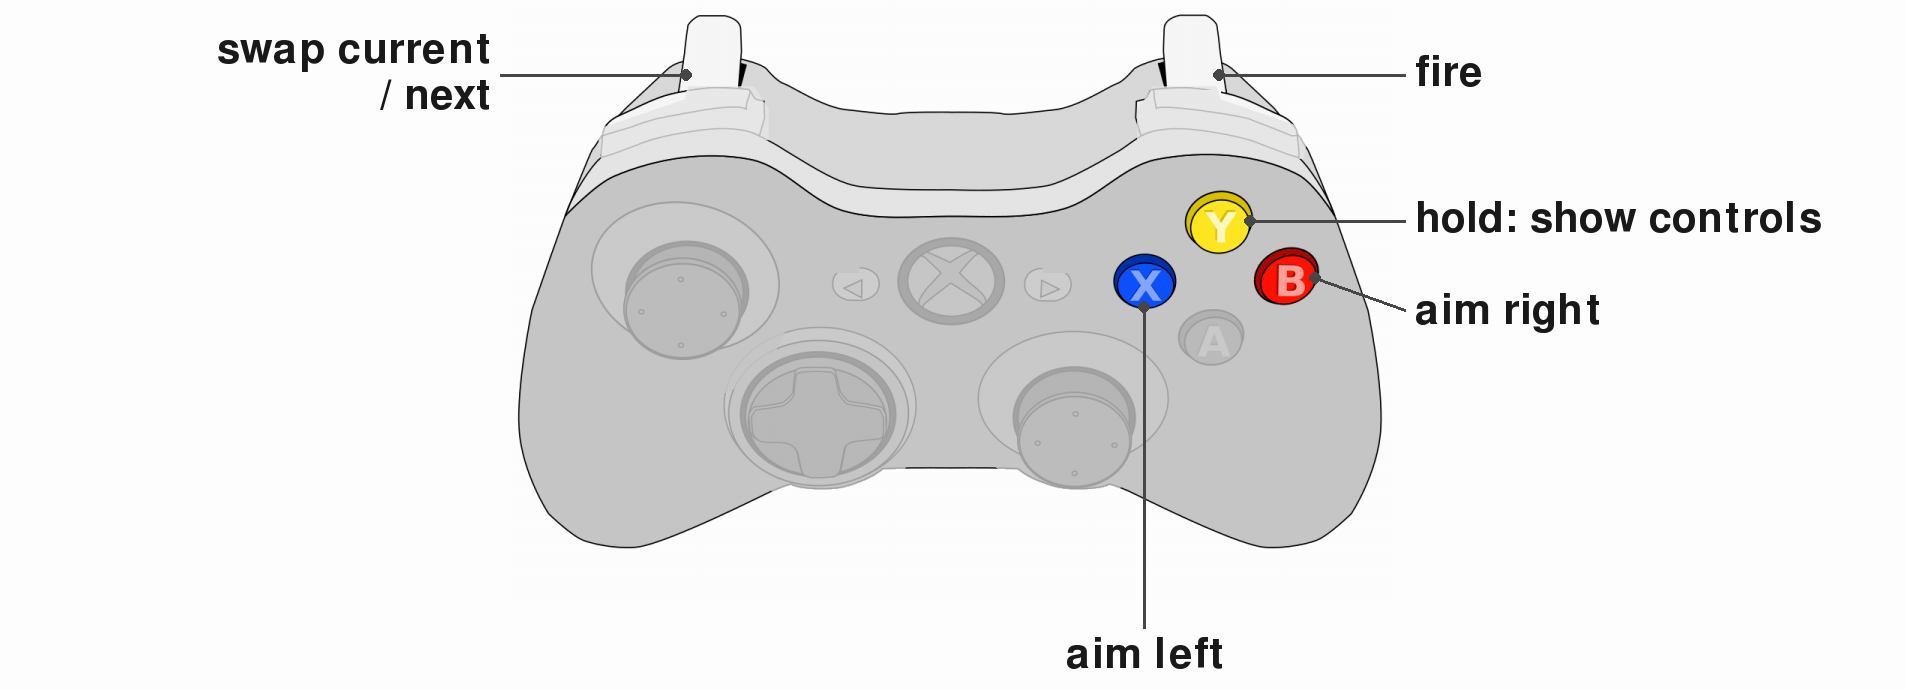
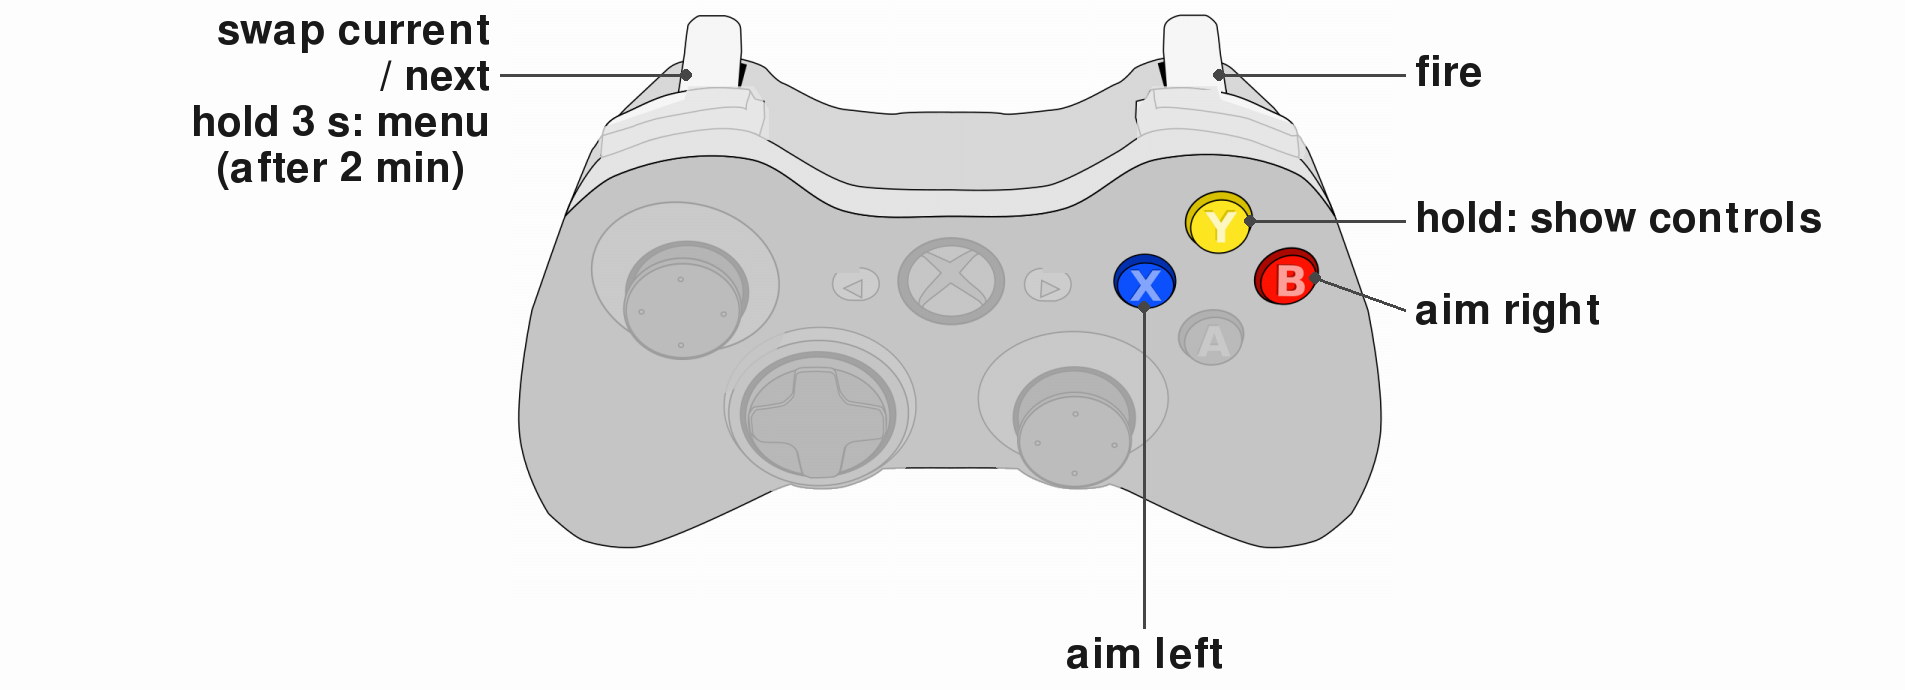
Level timings and menus for the BC01 session games, the same on every input
Fluid Sort, Extract and Bubble Shooter levels run until cleared, forfeited
or the run ends (duration 3600 s, past any run's 600 s), each with a hold-3-s
menu after 2 min; Jetpack Run plays until the run ends (n_episodes 1000,
duration 3600 s). Rush Hour puzzles last up to 8 min with the menu after 3;
Baba Is You levels 15 min with the menu after 8. Leaving duration out would
fall back to GamePhase's 300 s default, hence a value past the run.

Applied to the stick, ABXY and keyboard common phases alike. New menus:
X on the stick versions of Extract and Bubble Shooter (the only free
control), LT on Bubble Shooter ABXY (as Fluid Sort ABXY), X / M on the
keyboard versions. Extract ABXY binds every control, so it has no menu yet.
Controls images redrawn from labels.json; READMEs no longer quote the old caps.

Changed region(s): [[0.0929, 0.0304, 0.2787, 0.2739]]

diff --git a/configs/curricula/aigamestore/common/README.md b/configs/curricula/aigamestore/common/README.md
@@ -25,9 +25,9 @@ The env's action is MultiBinary over the game's keys, in `aigamestore_gym.GAME_K
 
 ## Levels
 
-An episode is one level: it ends on a win, a loss or a level clear, and `reset()` restarts the same level. Each level is one phase; drop or reorder them as the session needs. The blocks are blocking, as the games are: each is its level played until cleared (mode `episode`, `n_episodes` 1, `advance_on` `["won"]`); a loss restarts the same level, so the levels run back to back at the subject's own pace, and `duration` 120 s is the cap on a level nobody clears. Three games differ:
+An episode is one level: it ends on a win, a loss or a level clear, and `reset()` restarts the same level. Each level is one phase; drop or reorder them as the session needs. The blocks are blocking, as the games are: each is its level played until cleared (mode `episode`, `n_episodes` 1, `advance_on` `["won"]`); a loss restarts the same level, so the levels run back to back at the subject's own pace, and `duration` is the cap on a level nobody clears (game1, game7 and game8 set it longer than a run, so a level ends only when cleared, forfeited from the menu, or at the end of the run). Three games differ:
 
-- **game4** (jetpack runner) has no levels and cannot be won: each episode is one run and ends when it is lost. The block is 10 runs (`n_episodes` 10, no `advance_on`, so every run counts), `duration` 300 s the cap.
+- **game4** (jetpack runner) has no levels and cannot be won: each episode is one run and ends when it is lost. Its `n_episodes` and `duration` are both far beyond a run (no `advance_on`, so every run counts): the block is played until the run ends.
 - **game6** (shadow platformer) is one long level with checkpoints: the block is one attempt that counts only when won, a loss restarts it, and `duration` is 300 s.
 - **game7** (top-down extract shooter) generates levels without an upper bound; the first five are listed.
 

diff --git a/configs/curricula/rushhour/common/README.md b/configs/curricula/rushhour/common/README.md
@@ -27,4 +27,4 @@ It ports the participant flow of https://github.com/chrplr/Rush-Hour `main.go`: 
 
 Each puzzle is preceded by a blank 0.8 s message (the ITI), opens on its instructions (headed "Puzzle i of N", over the rules, until SPACE), and is followed by the block's own result screen ("Final score" and "Puzzle solved", for `show_outcome_duration` seconds, default 2; text on the plain background, not the solved board Rush-Hour holds). Each puzzle is its own block, with its own log and manifest entry; the puzzle number is the phase's place in the list, as the board carries no counter. The board is drawn like rushui (same layout, palette, white outline and arrows on the selected car), and the logged variables carry the columns of Rush-Hour's results file (`event`, `car`, `from_*` / `to_*`, `n_slides`, `solved`, `t_ms`, `trial_ms`).
 
-Rush-Hour stamps keypresses and flips on SDL's monotonic clock; here a key is timestamped when the loop processes it, within 1/`fps`, hence `fps` 60 (a turn-based block steps only on a keydown, so the rate costs nothing). `duration` is per puzzle and effectively unlimited; ESC is the experimenter's way out.
+Rush-Hour stamps keypresses and flips on SDL's monotonic clock; here a key is timestamped when the loop processes it, within 1/`fps`, hence `fps` 60 (a turn-based block steps only on a keydown, so the rate costs nothing). `duration` is the cap on each puzzle; ESC is the experimenter's way out.

diff --git a/configs/curricula/baba_auto/common/README.md b/configs/curricula/baba_auto/common/README.md
@@ -12,7 +12,7 @@ Clone utilForever/baba-is-auto into `external/baba_auto` at the commit the READM
 
 ## Blocking and the menu
 
-Blocking, as Baba Is You is: the block is the level played until won (mode `episode`, `n_episodes` 1, `advance_on` `["won"]`); a loss (YOU destroyed, or no YOU left) restarts the same level, as the game itself does, and `duration` 300 s is the cap. A puzzle can be pushed into a dead end, so holding X for 3 s pauses the game and offers Restart / Give up / Resume (UP/DOWN to choose, SPACE to select; `humans/popup.py`); Give up is the way out of a level the subject cannot solve.
+Blocking, as Baba Is You is: the block is the level played until won (mode `episode`, `n_episodes` 1, `advance_on` `["won"]`); a loss (YOU destroyed, or no YOU left) restarts the same level, as the game itself does, and `duration` is the cap. A puzzle can be pushed into a dead end, so once the menu's `after` has passed, holding X for 3 s pauses the game and offers Restart / Give up / Resume (UP/DOWN to choose, SPACE to select; `humans/popup.py`); Give up is the way out of a level the subject cannot solve.
 
 ## Curricula
 
